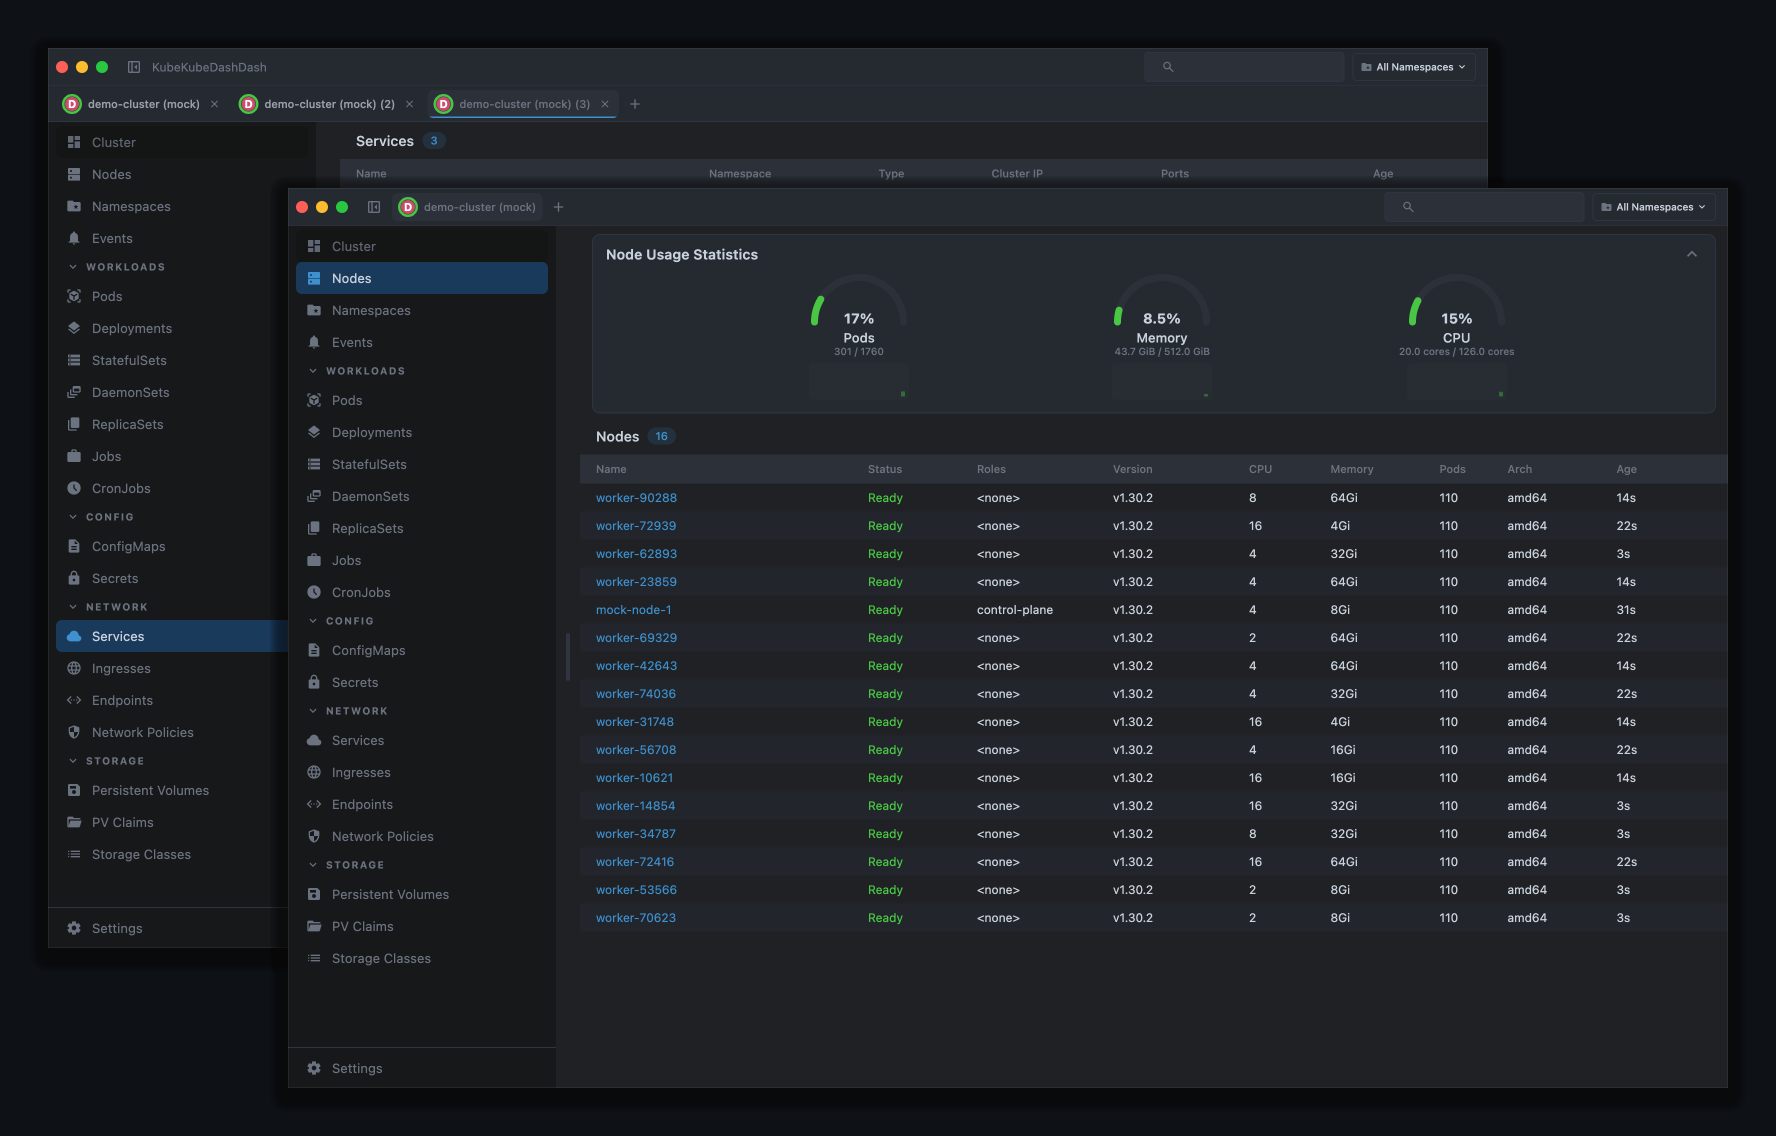
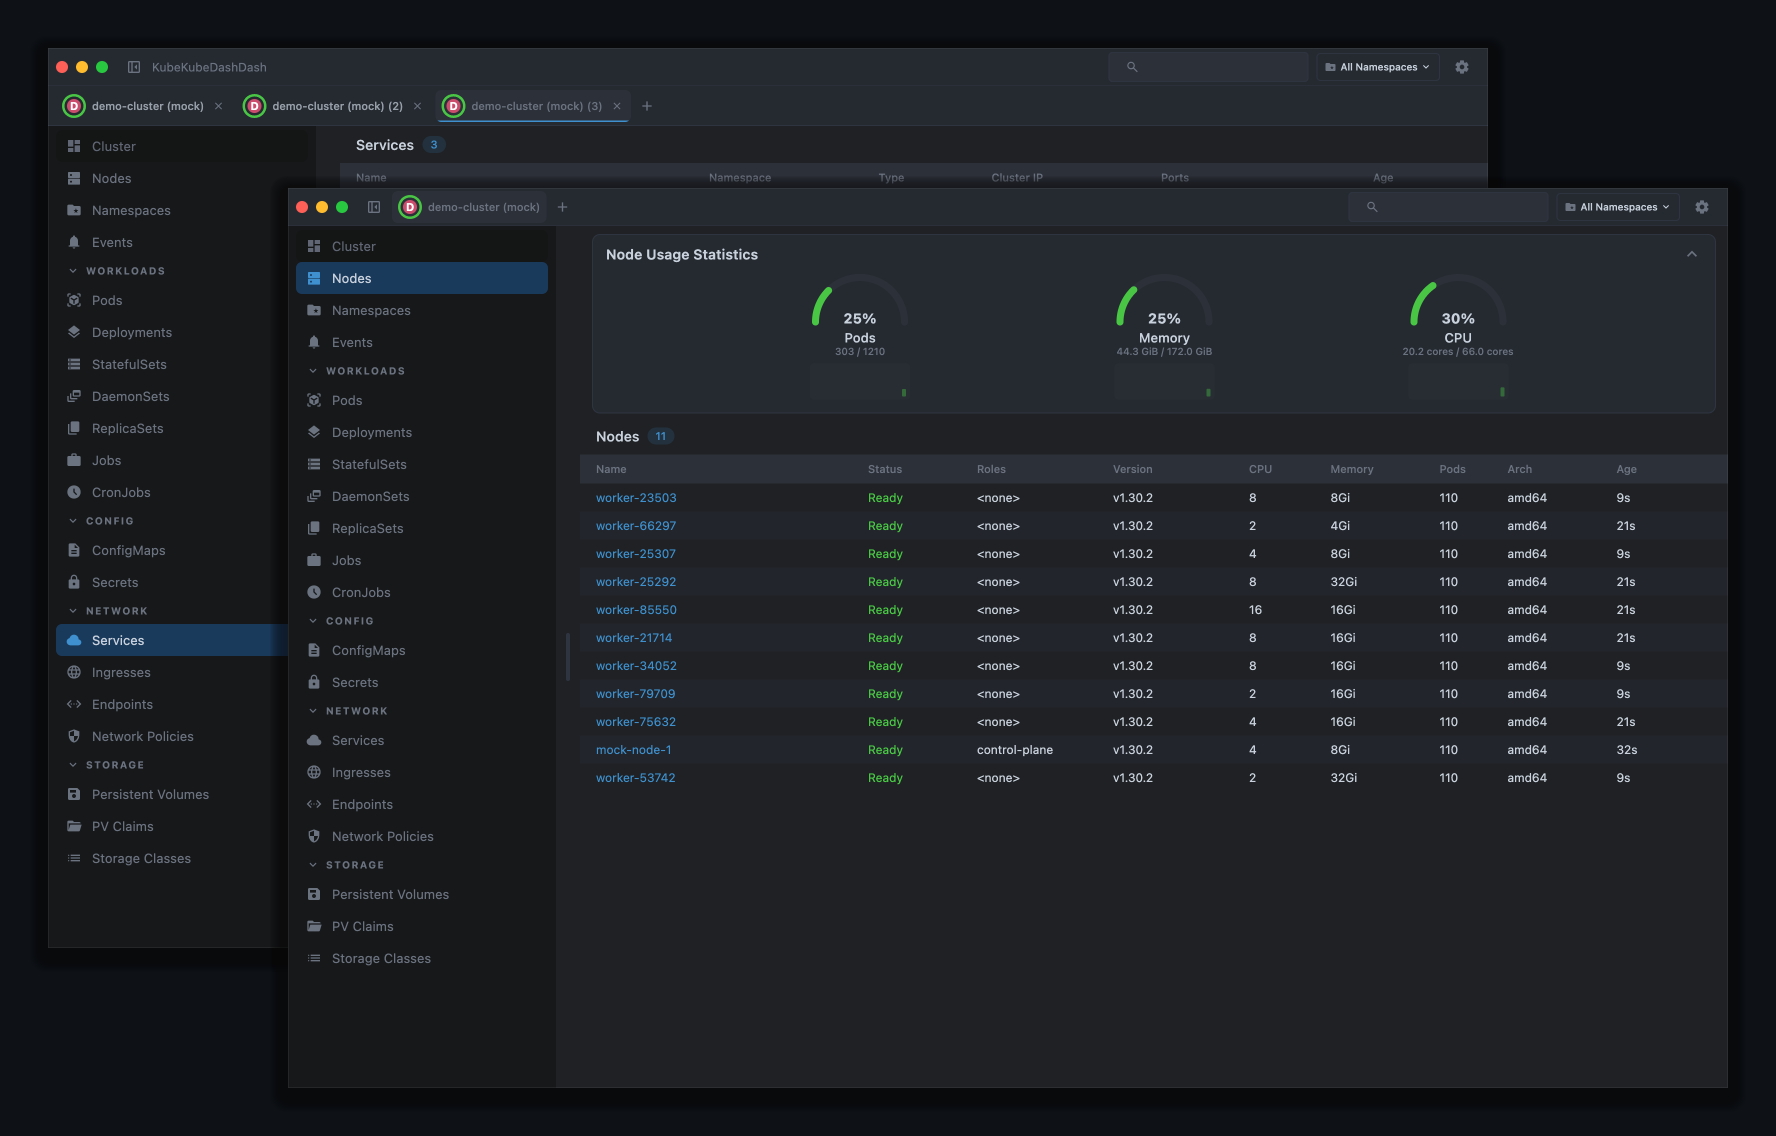
fixed screenshot of settings and regenerated screenshots

diff --git a/composeApp/src/desktopMain/kotlin/com/kubekubedashdash/ui/App.kt b/composeApp/src/desktopMain/kotlin/com/kubekubedashdash/ui/App.kt
@@ -43,7 +43,6 @@ import androidx.compose.runtime.collectAsState
 import androidx.compose.runtime.getValue
 import androidx.compose.runtime.key
 import androidx.compose.runtime.mutableFloatStateOf
-import androidx.compose.runtime.mutableStateOf
 import androidx.compose.runtime.remember
 import androidx.compose.runtime.setValue
 import androidx.compose.runtime.snapshotFlow
@@ -197,7 +196,7 @@ fun App(
             }
         }
 
-        var settingsOpen by remember { mutableStateOf(false) }
+        val settingsOpen by workspace.showSettings.collectAsState()
 
         // Provide the title session's locals at App scope for modals and the
         // title bar. SessionPaneContent re-provides per-page locals so each
@@ -237,7 +236,7 @@ fun App(
                                 onToggleSidebar = {
                                     PreferenceRepository.sidebarCollapsed = !sidebarCollapsed
                                 },
-                                onOpenSettings = { settingsOpen = true },
+                                onOpenSettings = { workspace.showSettings() },
                                 chipSlot = if (!isMultiTab && selectedContext.isNotBlank() && activeSession != null) {
                                     @Composable {
                                         val ctx = selectedContext
@@ -400,13 +399,13 @@ fun App(
 
                 if (settingsOpen) {
                     SettingsDialog(
-                        onDismiss = { settingsOpen = false },
+                        onDismiss = { workspace.dismissSettings() },
                         onDiscoverEks = {
-                            settingsOpen = false
+                            workspace.dismissSettings()
                             workspace.showEksDiscovery()
                         },
                         onOpenLogsTab = {
-                            settingsOpen = false
+                            workspace.dismissSettings()
                             workspace.openLogsTab()
                         },
                     )

diff --git a/composeApp/src/desktopMain/kotlin/com/kubekubedashdash/model/Workspace.kt b/composeApp/src/desktopMain/kotlin/com/kubekubedashdash/model/Workspace.kt
@@ -73,6 +73,9 @@ class Workspace(
     private val _showEksDiscovery = MutableStateFlow(false)
     val showEksDiscovery: StateFlow<Boolean> = _showEksDiscovery.asStateFlow()
 
+    private val _showSettings = MutableStateFlow(false)
+    val showSettings: StateFlow<Boolean> = _showSettings.asStateFlow()
+
     /**
      * Screen-space rectangle of this window's chip-drop zone — the chip slot in
      * the title bar at N=1 or the [com.kubekubedashdash.ui.WindowTabStrip] row
@@ -204,6 +207,14 @@ class Workspace(
 
     fun dismissEksDiscovery() {
         _showEksDiscovery.value = false
+    }
+
+    fun showSettings() {
+        _showSettings.value = true
+    }
+
+    fun dismissSettings() {
+        _showSettings.value = false
     }
 
     fun updateDropZoneScreenBounds(bounds: Rect?) {

diff --git a/composeApp/src/desktopMain/kotlin/com/kubekubedashdash/screenshots/GenerateScreenshots.kt b/composeApp/src/desktopMain/kotlin/com/kubekubedashdash/screenshots/GenerateScreenshots.kt
@@ -186,6 +186,16 @@ private suspend fun runScreenshotJob(outDir: File) = coroutineScope {
             log.info("captured {}", slug)
         }
 
+        log.info("Capturing settings dialog over cluster overview")
+        sessionVm.navigate(Screen.Main.ClusterOverview)
+        delay(900L)
+        initialWorkspace.showSettings()
+        delay(900L)
+        captureWindow(initialWorkspace.id, outDir.resolve("21-settings.png"))
+        initialWorkspace.dismissSettings()
+        delay(300L)
+        log.info("captured 21-settings")
+
         log.info("Building light/dark theme comparison")
         sessionVm.navigate(Screen.Main.ClusterOverview)
         delay(900)
